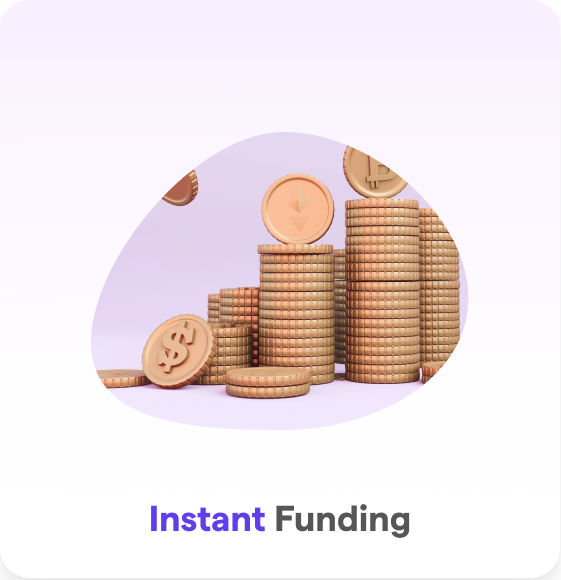
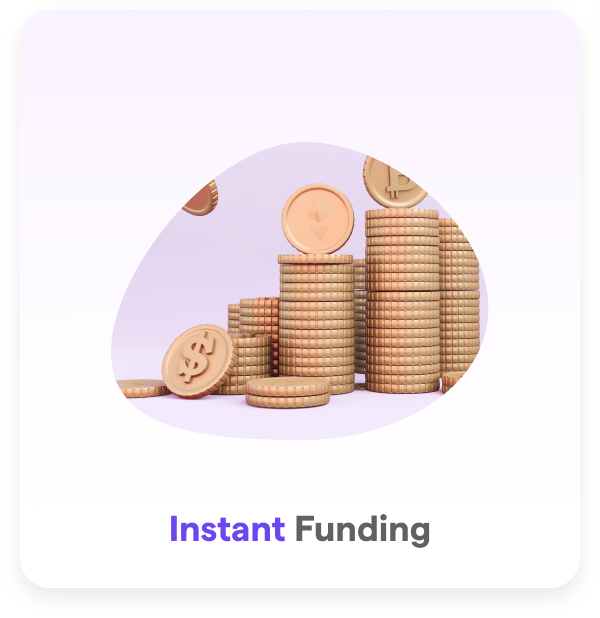
small picture added; figma pictures correctly downloaded

diff --git a/virgocx/src/pages/App.tsx b/virgocx/src/pages/App.tsx
@@ -17,12 +17,20 @@ class Main extends React.Component {
     window.removeEventListener('resize', this.updateDimensions);
   }
   render() {
-    let title;
+    let title,leftUp,leftDown,rightUp,rightDown;
     const screenWidth = this.state.width;
     if (screenWidth >= 1024){
       title = <img src={"./assets/images/title-hor.png"} />
+      leftUp = <img src={"./assets/images/left-up.png"} className="w-[325px] h-[230px] lg:w-[560px] lg:h-[446px] bg-white-500"/>
+      leftDown = <img src={"./assets/images/left-down.png"} className="w-[325px] h-[230px] lg:w-[560px] lg:h-[578px] bg-white-500"/>
+      rightUp = <img src={"./assets/images/right-up.png"} className="w-[325px] h-[230px] lg:w-[560px] lg:h-[628px] bg-white-500"/>
+      rightDown = <img src={"./assets/images/right-down.png"} className="w-[325px] h-[230px] lg:w-[560px] lg:h-[396px] bg-white-500"/>
     }else{
       title = <img src={"./assets/images/title-ver.png"} />
+      leftUp = <img src={"./assets/images/left-up-small.png"} className="w-[325px] h-[230px] lg:w-[560px] lg:h-[446px] bg-white-500"/>
+      leftDown = <img src={"./assets/images/right-up-small.png"} className="w-[325px] h-[230px] lg:w-[560px] lg:h-[628px] bg-white-500"/>
+      rightUp = <img src={"./assets/images/left-down-small.png"} className="w-[325px] h-[230px] lg:w-[560px] lg:h-[578px] bg-white-500"/>
+      rightDown = <img src={"./assets/images/right-down-small.png"} className="w-[325px] h-[230px] lg:w-[560px] lg:h-[396px] bg-white-500"/>
     }
     
 
@@ -35,22 +43,21 @@ class Main extends React.Component {
       <div className="flex flex-col lg:flex-row items-center">
         <div className="flex-col">
           <div className="w-[325px] h-[230px] lg:w-[560px] lg:h-[446px] bg-white-500">
-            <img src={"./assets/images/left-up.png"} className="w-[325px] h-[230px] lg:w-[560px] lg:h-[446px] bg-white-500"/>
-            {/* Picture 1 */}
+            {leftUp}
           </div>
           {/* <div className="horizontal-gap"/> */}
           <div className="w-[325px] h-[230px] lg:w-[560px] lg:h-[578px] bg-blue-500">
-            {/* <img src={"./assets/images/left-down.png"} className="w-[325px] h-[230px] lg:w-[560px] lg:h-[578px] bg-white-500"/> */}
+            {leftDown}
           </div>
         </div>
         {/* <div className="vertical-gap"/> */}
         <div className="flex-col">
           <div className="w-[325px] h-[230px] lg:w-[560px] lg:h-[628px] bg-yellow-500">
-            {/* <img src={"./assets/images/right-up.png"} className="w-[325px] h-[230px] lg:w-[560px] lg:h-[628px] bg-white-500"/> */}
+            {rightUp}
           </div>
           {/* <div className="horizontal-gap"/> */}
           <div className="w-[325px] h-[230px] lg:w-[560px] lg:h-[396px] bg-green-500">
-            {/* <img src={"./assets/images/right-down.png"} className="w-[325px] h-[230px] lg:w-[560px] lg:h-[396px] bg-white-500"/> */}
+            {rightDown}
           </div>
         </div>
       </div>
